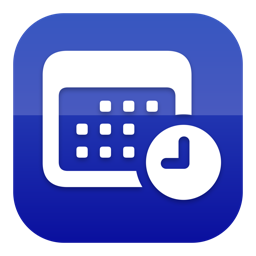
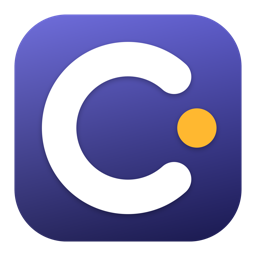
Add files via upload

diff --git a/index.html b/index.html
@@ -55,6 +55,8 @@
   <a class="hide" href="#ucastnik"><span data-lang="sk">Účastník</span><span data-lang="en">Attendee</span></a>
   <a class="hide" href="#organizator"><span data-lang="sk">Organizátor</span><span data-lang="en">Organiser</span></a>
   <a class="hide" href="#ai">AI</a>
+  <a class="hide" href="#cena"><span data-lang="sk">Cena</span><span data-lang="en">Price</span></a>
+  <a class="hide" href="#autor"><span data-lang="sk">Autor</span><span data-lang="en">Author</span></a>
   <a class="hide" href="privacy.html"><span data-lang="sk">Súkromie</span><span data-lang="en">Privacy</span></a>
   <button class="lang" onclick="toggleLang()"><span data-lang="sk">EN</span><span data-lang="en">SK</span></button>
 </div></header>
@@ -67,7 +69,7 @@
     <p class="lead" data-lang="sk">Zadajte web konferencie alebo PDF programu. Congressa ho prečíta, vy skontrolujete a schválite — a telefón vás potom upozorní na každú prednášku, obed či večeru: čo, kedy a kde. Bez internetu, bez registrácie, bez organizátora.</p>
     <p class="lead" data-lang="en">Enter the conference website or the programme PDF. Congressa reads it, you check and approve — and your phone reminds you of every lecture, lunch or dinner: what, when and where. No internet, no sign-up, no organiser needed.</p>
     <div class="cta">
-      <a class="btn" href="#stiahnut"><span data-lang="sk">Vyskúšať (TestFlight)</span><span data-lang="en">Try it (TestFlight)</span></a>
+      <a class="btn" href="#stiahnut"><span data-lang="sk">Zadarmo — čoskoro v App Store</span><span data-lang="en">Free — coming to the App Store</span></a>
       <a class="btn sec" href="#organizator"><span data-lang="sk">Pre organizátorov</span><span data-lang="en">For organisers</span></a>
     </div>
   </div>
@@ -96,7 +98,7 @@
     <div class="card"><div class="ic">⭐</div><h3 data-lang="sk">Môj plán a „Som v programe“</h3><h3 data-lang="en">My plan and “I'm in the programme”</h3><p data-lang="sk">Označte prednášky hviezdičkou. Ak prednášate, predsedáte alebo sprevádzate, priraďte sa k sebe — vaše vystúpenia sa zvýraznia a upozornia vás.</p><p data-lang="en">Star talks you care about. If you present, chair or guide, link yourself — your slots are highlighted and you get reminded.</p></div>
     <div class="card"><div class="ic">🔍</div><h3 data-lang="sk">Hľadanie priezviska</h3><h3 data-lang="en">Search by surname</h3><p data-lang="sk">Nájde prednášku aj vo vnútri bloku (OP-12 v sekcii II), bez ohľadu na diakritiku.</p><p data-lang="en">Finds a talk even inside a block (OP-12 in session II), diacritics-insensitive.</p></div>
     <div class="card"><div class="ic">📍</div><h3 data-lang="sk">Miesta a kontakty</h3><h3 data-lang="en">Places and contacts</h3><p data-lang="sk">Navigácia na miesto konania, večeru či zraz na výlet; pri výletoch kontaktná osoba s tlačidlom zavolať.</p><p data-lang="en">Navigate to the venue, dinner or trip meeting point; trips show a contact person with a call button.</p></div>
-    <div class="card"><div class="ic">🎨</div><h3 data-lang="sk">Vaša ikona</h3><h3 data-lang="en">Your icon</h3><p data-lang="sk">Päť ikon na výber priamo v aplikácii.</p><p data-lang="en">Five icons to choose from inside the app.</p></div>
+    <div class="card"><div class="ic">🎨</div><h3 data-lang="sk">Vaša ikona</h3><h3 data-lang="en">Your icon</h3><p data-lang="sk">Šesť ikon na výber priamo v aplikácii — od monogramu po tmavý program.</p><p data-lang="en">Six icons to choose from inside the app — from the monogram to the dark programme.</p></div>
   </div>
 </section>
 
@@ -125,23 +127,47 @@
   </div>
 </section>
 
+<section id="cena">
+  <h2 data-lang="sk">Koľko to stojí: nič</h2><h2 data-lang="en">What it costs: nothing</h2>
+  <p class="sub" data-lang="sk">Congressa je zadarmo a celá. Bez reklám, bez sledovania, bez zamknutých funkcií a bez predplatného. Nič nie je odložené pre platenú verziu.</p>
+  <p class="sub" data-lang="en">Congressa is free and complete. No ads, no tracking, no locked features, no subscription. Nothing is held back for a paid tier.</p>
+  <div class="grid">
+    <div class="card"><div class="ic">🎁</div><h3 data-lang="sk">Všetko zadarmo</h3><h3 data-lang="en">Everything free</h3><p data-lang="sk">Program, upozornenia, môj plán, offline režim, administrácia na Macu aj vlastný server — bez akejkoľvek platby.</p><p data-lang="en">Programme, reminders, my plan, offline mode, the Mac back office and your own server — with no payment at all.</p></div>
+    <div class="card"><div class="ic">☕</div><h3 data-lang="sk">Nepovinný príspevok</h3><h3 data-lang="en">Optional contribution</h3><p data-lang="sk">Ak vám appka na konferencii pomohla, môžete prispieť — káva 2,99 €, obed 7,99 €, večera 9,99 €. Nič sa tým neodomyká a prispieť sa dá aj opakovane.</p><p data-lang="en">If the app helped you at a conference you can chip in — coffee €2.99, lunch €7.99, dinner €9.99. It unlocks nothing and you can do it as often as you like.</p></div>
+    <div class="card"><div class="ic">🙈</div><h3 data-lang="sk">Bez otravovania</h3><h3 data-lang="en">No nagging</h3><p data-lang="sk">Výzva na príspevok sa zobrazí nanajvýš trikrát za celý život aplikácie — a kto prispel, nevidí ju nikdy.</p><p data-lang="en">The reminder about contributing appears at most three times in the whole life of the app — and never to someone who has already contributed.</p></div>
+  </div>
+</section>
+
 <section class="icons">
   <h2 data-lang="sk">Vyberte si ikonu</h2><h2 data-lang="en">Pick your icon</h2>
   <img src="assets/icons.png" alt="Congressa icons">
+</section>
+
+<section id="autor">
+  <h2 data-lang="sk">Prečo Congressa vznikla</h2><h2 data-lang="en">Why Congressa exists</h2>
+  <div class="card" style="display:grid;grid-template-columns:auto 1fr;gap:20px;align-items:start">
+    <img src="assets/icon-256.png" alt="" style="width:88px;height:88px;border-radius:20px">
+    <div>
+      <p data-lang="sk" style="margin-top:0">„Na konferenciách som nosil v saku poskladaný papierový program. Hľadal som v ňom, kedy je moja prednáška a v ktorej sále, a listoval medzi dňami, kým sa okolo mňa menili sekcie. Chcel som mať program vo vrecku: nech mi telefón sám povie, čo práve prebieha, čo nasleduje a kam mám ísť — a nech to funguje aj tam, kde v kongresovej sále nie je signál.“</p>
+      <p data-lang="en" style="margin-top:0">“At conferences I carried a folded paper programme in my jacket. I looked up when my talk was and in which hall, leafing between days while the sessions changed around me. I wanted the programme in my pocket: let the phone tell me what is on now, what comes next and where to go — and let it work where a congress hall has no signal.”</p>
+      <p style="color:var(--muted);margin-bottom:0"><b>MUDr. Ján Šikuta, PhD.</b> — <span data-lang="sk">súdny lekár, Bratislava · autor aplikácie</span><span data-lang="en">forensic pathologist, Bratislava · author of the app</span> · <a href="mailto:jansikuta@me.com">jansikuta@me.com</a></p>
+    </div>
+  </div>
 </section>
 
 <section id="stiahnut">
   <h2 data-lang="sk">Stiahnuť</h2><h2 data-lang="en">Download</h2>
   <table>
     <tr><th data-lang="sk">Platforma</th><th data-lang="en">Platform</th><th data-lang="sk">Stav</th><th data-lang="en">Status</th></tr>
-    <tr><td>iPhone / iPad (iOS 17+)</td><td><span data-lang="sk">TestFlight — odkaz doplníme po schválení</span><span data-lang="en">TestFlight — link coming after review</span></td></tr>
+    <tr><td>iPhone / iPad (iOS 17+)</td><td><span data-lang="sk">verzia 1.0 je v recenzii App Store — zadarmo</span><span data-lang="en">version 1.0 is in App Store review — free</span></td></tr>
     <tr><td>Mac (macOS 14+) — <span data-lang="sk">organizátor</span><span data-lang="en">organiser</span></td><td><span data-lang="sk">na vyžiadanie</span><span data-lang="en">on request</span></td></tr>
+    <tr><td><span data-lang="sk">Server pre organizátora</span><span data-lang="en">Organiser server</span></td><td><span data-lang="sk">jeden súbor, bez závislostí — na vyžiadanie ako balík na dvojklik</span><span data-lang="en">one file, no dependencies — on request as a double-click package</span></td></tr>
     <tr><td>Android</td><td><span data-lang="sk">pripravuje sa (rovnaký server)</span><span data-lang="en">in preparation (same server)</span></td></tr>
   </table>
-  <p style="margin-top:14px"><span data-lang="sk">Kontakt:</span><span data-lang="en">Contact:</span> <a href="mailto:congressa@sikuta.sk">congressa@sikuta.sk</a> · <a href="support.html"><span data-lang="sk">Podpora</span><span data-lang="en">Support</span></a> · <a href="privacy.html"><span data-lang="sk">Ochrana súkromia</span><span data-lang="en">Privacy policy</span></a></p>
+  <p style="margin-top:14px"><span data-lang="sk">Kontakt:</span><span data-lang="en">Contact:</span> <a href="mailto:jansikuta@me.com">jansikuta@me.com</a> · <a href="support.html"><span data-lang="sk">Podpora</span><span data-lang="en">Support</span></a> · <a href="privacy.html"><span data-lang="sk">Ochrana súkromia</span><span data-lang="en">Privacy policy</span></a></p>
 </section>
 
-<footer>© 2026 Ján Šikuta · Congressa · <span data-lang="sk">Vytvorené pre odborné konferencie.</span><span data-lang="en">Built for scientific conferences.</span></footer>
+<footer>© 2026 MUDr. Ján Šikuta, PhD. · Congressa · <span data-lang="sk">Vytvorené pre odborné konferencie.</span><span data-lang="en">Built for scientific conferences.</span></footer>
 <script>
 function setLang(l){document.documentElement.lang=l;try{localStorage.setItem('congressa_lang',l)}catch(e){}}
 function toggleLang(){setLang(document.documentElement.lang==='sk'?'en':'sk')}

diff --git a/support.html b/support.html
@@ -3,12 +3,15 @@
 <style>body{font-family:-apple-system,BlinkMacSystemFont,"Segoe UI",Roboto,Helvetica,Arial,sans-serif;max-width:760px;margin:0 auto;padding:30px 20px;line-height:1.6;color:#0f172a}h1{font-size:28px}h2{font-size:20px;margin-top:28px}a{color:#0B0E9D}details{border:1px solid #e5e7ef;border-radius:10px;padding:10px 14px;margin:10px 0;background:#fff}summary{font-weight:600;cursor:pointer}</style></head><body>
 <p><a href="index.html">← Congressa</a></p>
 <h1>Podpora</h1>
-<p>Napíšte na <a href="mailto:congressa@sikuta.sk">congressa@sikuta.sk</a>. Najčastejšie otázky:</p>
+<p>Napíšte na <a href="mailto:jansikuta@me.com">jansikuta@me.com</a>. Najčastejšie otázky:</p>
 <details><summary>Zadal som web konferencie a nič sa nenašlo</summary><p>Skúste PDF programu (organizátor ho vždy má) alebo zapnite AI rozpoznanie (Nastavenia → AI rozpoznanie). Niektoré weby program vôbec nemajú v texte — vtedy pomôže len PDF.</p></details>
 <details><summary>Neprišlo mi upozornenie</summary><p>Nastavenia iPhonu → Hlásenia → Congressa → povoliť. V aplikácii Nastavenia → Upozornenia skontrolujte, čo sa má pripomínať a koľko minút vopred. Upozornenia sú lokálne, netreba internet.</p></details>
 <details><summary>Časy v programe nesedia</summary><p>Pri načítaní programu klepnite na čas v náhľade a upravte ho; po schválení sa dá program upraviť znova cez Nastavenia → Načítať program.</p></details>
 <details><summary>Organizátor mi poslal adresu servera</summary><p>Nastavenia → Zdroj programu → zadajte adresu → Obnoviť program. Odvtedy chodia aj push notifikácie a prihlášky sa synchronizujú.</p></details>
 <details><summary>Koľko stojí AI rozpoznanie?</summary><p>S vlastným Claude API kľúčom rádovo desiatky centov za program (platíte priamo Anthropic). Cez Congressa cloud je limit niekoľko rozpoznaní denne.</p></details>
+<details><summary>Koľko stojí aplikácia?</summary><p>Nič. Congressa je zadarmo a celá — bez reklám, bez sledovania a bez zamknutých funkcií. Ak vám pomohla, môžete nepovinne prispieť (káva 2,99 €, obed 7,99 €, večera 9,99 €). Príspevok nič neodomyká a dá sa opakovať; kto prispel, už výzvu na príspevok nikdy neuvidí.</p></details>
+<details><summary>Prispel som, ako to zopakujem?</summary><p>Nastavenia → O aplikácii → „Ďakujem za podporu“. Otvorí sa tá istá obrazovka a môžete prispieť znova, napríklad na ďalšej konferencii.</p></details>
+<details><summary>Chcem server pre svoju konferenciu</summary><p>Napíšte na jansikuta@me.com. Server je jeden súbor v Pythone bez závislostí; pošleme balík, ktorý sa na Macu spustí dvojklikom a sám sa nastaví na štart po reštarte.</p></details>
 <h1>Support (English)</h1>
-<p>E-mail <a href="mailto:congressa@sikuta.sk">congressa@sikuta.sk</a>. If a website yields nothing, try the programme PDF or enable AI recognition (Settings → AI). Reminders are local notifications — allow them in iOS Settings → Notifications → Congressa. Times can be adjusted in the preview before approving.</p>
+<p>E-mail <a href="mailto:jansikuta@me.com">jansikuta@me.com</a>. If a website yields nothing, try the programme PDF or enable AI recognition (Settings → AI). Reminders are local notifications — allow them in iOS Settings → Notifications → Congressa. Times can be adjusted in the preview before approving. The app is free and complete; optional tips (coffee €2.99, lunch €7.99, dinner €9.99) unlock nothing and can be repeated.</p>
 </body></html>

diff --git a/privacy.html b/privacy.html
@@ -15,13 +15,13 @@
 <h2>Čo nerobíme</h2>
 <p>Žiadna analytika, žiadne reklamy, žiadne sledovanie, žiadny predaj dát. Vlastný Claude API kľúč je uložený iba v Keychaine zariadenia.</p>
 <h2>Vaše práva</h2>
-<p>Údaje v zariadení zmažete odinštalovaním aplikácie alebo tlačidlom „Odstrániť kód“ a „Načítať vzorový program“. Údaje na serveri organizátora spravuje organizátor konferencie (prevádzkovateľ); o výmaz požiadajte jeho, alebo nás: <a href="mailto:congressa@sikuta.sk">congressa@sikuta.sk</a>.</p>
+<p>Údaje v zariadení zmažete odinštalovaním aplikácie alebo tlačidlom „Odstrániť kód“ a „Načítať vzorový program“. Údaje na serveri organizátora spravuje organizátor konferencie (prevádzkovateľ); o výmaz požiadajte jeho, alebo nás: <a href="mailto:jansikuta@me.com">jansikuta@me.com</a>.</p>
 <h2>Prevádzkovateľ aplikácie</h2>
-<p>Ján Šikuta · <a href="mailto:congressa@sikuta.sk">congressa@sikuta.sk</a></p>
+<p>MUDr. Ján Šikuta, PhD. · <a href="mailto:jansikuta@me.com">jansikuta@me.com</a></p>
 <hr>
 <h1>Privacy policy</h1>
 <p class="muted">Effective 7 September 2026</p>
 <p>The programme, your plan, registrations, settings and the name you enter are stored <b>on your device</b>. The app works offline and needs no account.</p>
 <p><b>Sent outside the device only when you opt in:</b> to the organiser's server (random device ID, push token, notification preferences, favourites, registrations, your name, SHA-256 of your access code); to the conference website you enter (pages and PDFs are downloaded like a browser does); to the AI recognition endpoint you choose (api.anthropic.com with your own key, or the Congressa cloud / organiser server) — only the programme text, never your personal data.</p>
-<p>No analytics, no ads, no tracking, no data sales. Your own Claude API key is stored only in the device Keychain. Delete on-device data by uninstalling the app; data on an organiser's server is controlled by that organiser. Contact: <a href="mailto:congressa@sikuta.sk">congressa@sikuta.sk</a> · Operator: Ján Šikuta.</p>
+<p>No analytics, no ads, no tracking, no data sales. Your own Claude API key is stored only in the device Keychain. Delete on-device data by uninstalling the app; data on an organiser's server is controlled by that organiser. Contact: <a href="mailto:jansikuta@me.com">jansikuta@me.com</a> · Operator: Ján Šikuta.</p>
 </body></html>

diff --git a/README.md b/README.md
@@ -2,4 +2,9 @@
 
 Statická stránka pre GitHub Pages (repo `dzanino/Congressa`): `index.html` (SK/EN prepínač), `privacy.html`
 (povinné pre App Store), `support.html`, `assets/`. Nahrať obsah tohto priečinka do koreňa repozitára
-(alebo do `docs/` a v Settings → Pages zvoliť `/docs`). Odkaz na TestFlight doplniť v `index.html` (#stiahnut).
+(alebo do `docs/` a v Settings → Pages zvoliť `/docs`). Po schválení v App Store doplniť odkaz na appku v `index.html` (#stiahnut).
+
+Obrázky v `assets/` sa generujú z ikon aplikácie:
+`cp Congressa/Resources/Assets.xcassets/AppIcon.appiconset/mac-256@1x.png web/assets/icon-256.png`
+(a `mac-512@1x.png` → `icon-512.png`), prehľad ikon `docs/icons_preview.png` → `assets/icons.png`.
+Stav k 7. 9. 2026: appka je zadarmo s nepovinnými príspevkami, kontakt `jansikuta@me.com`.
